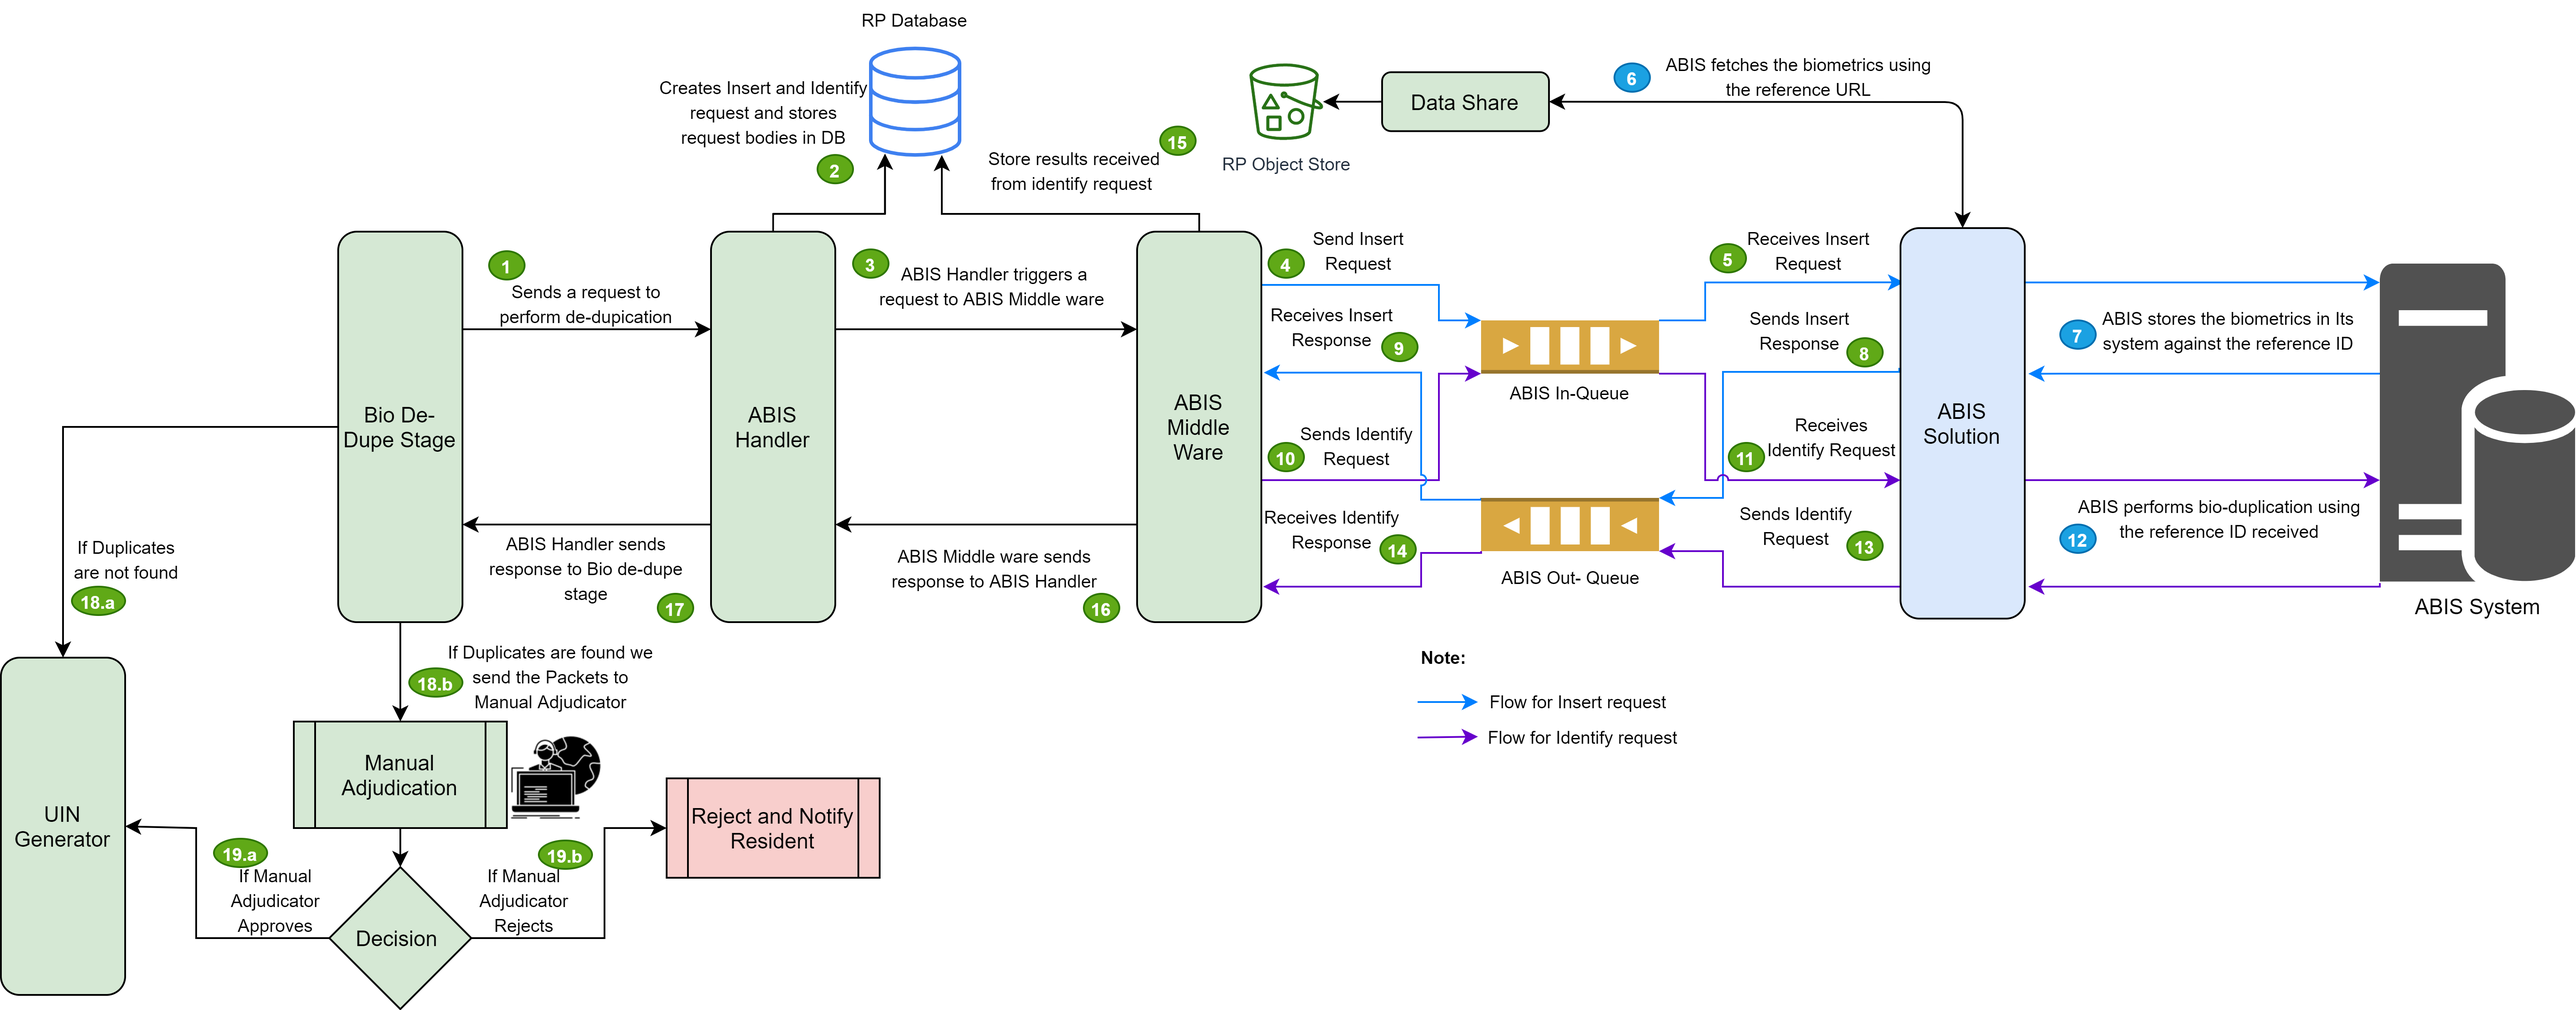
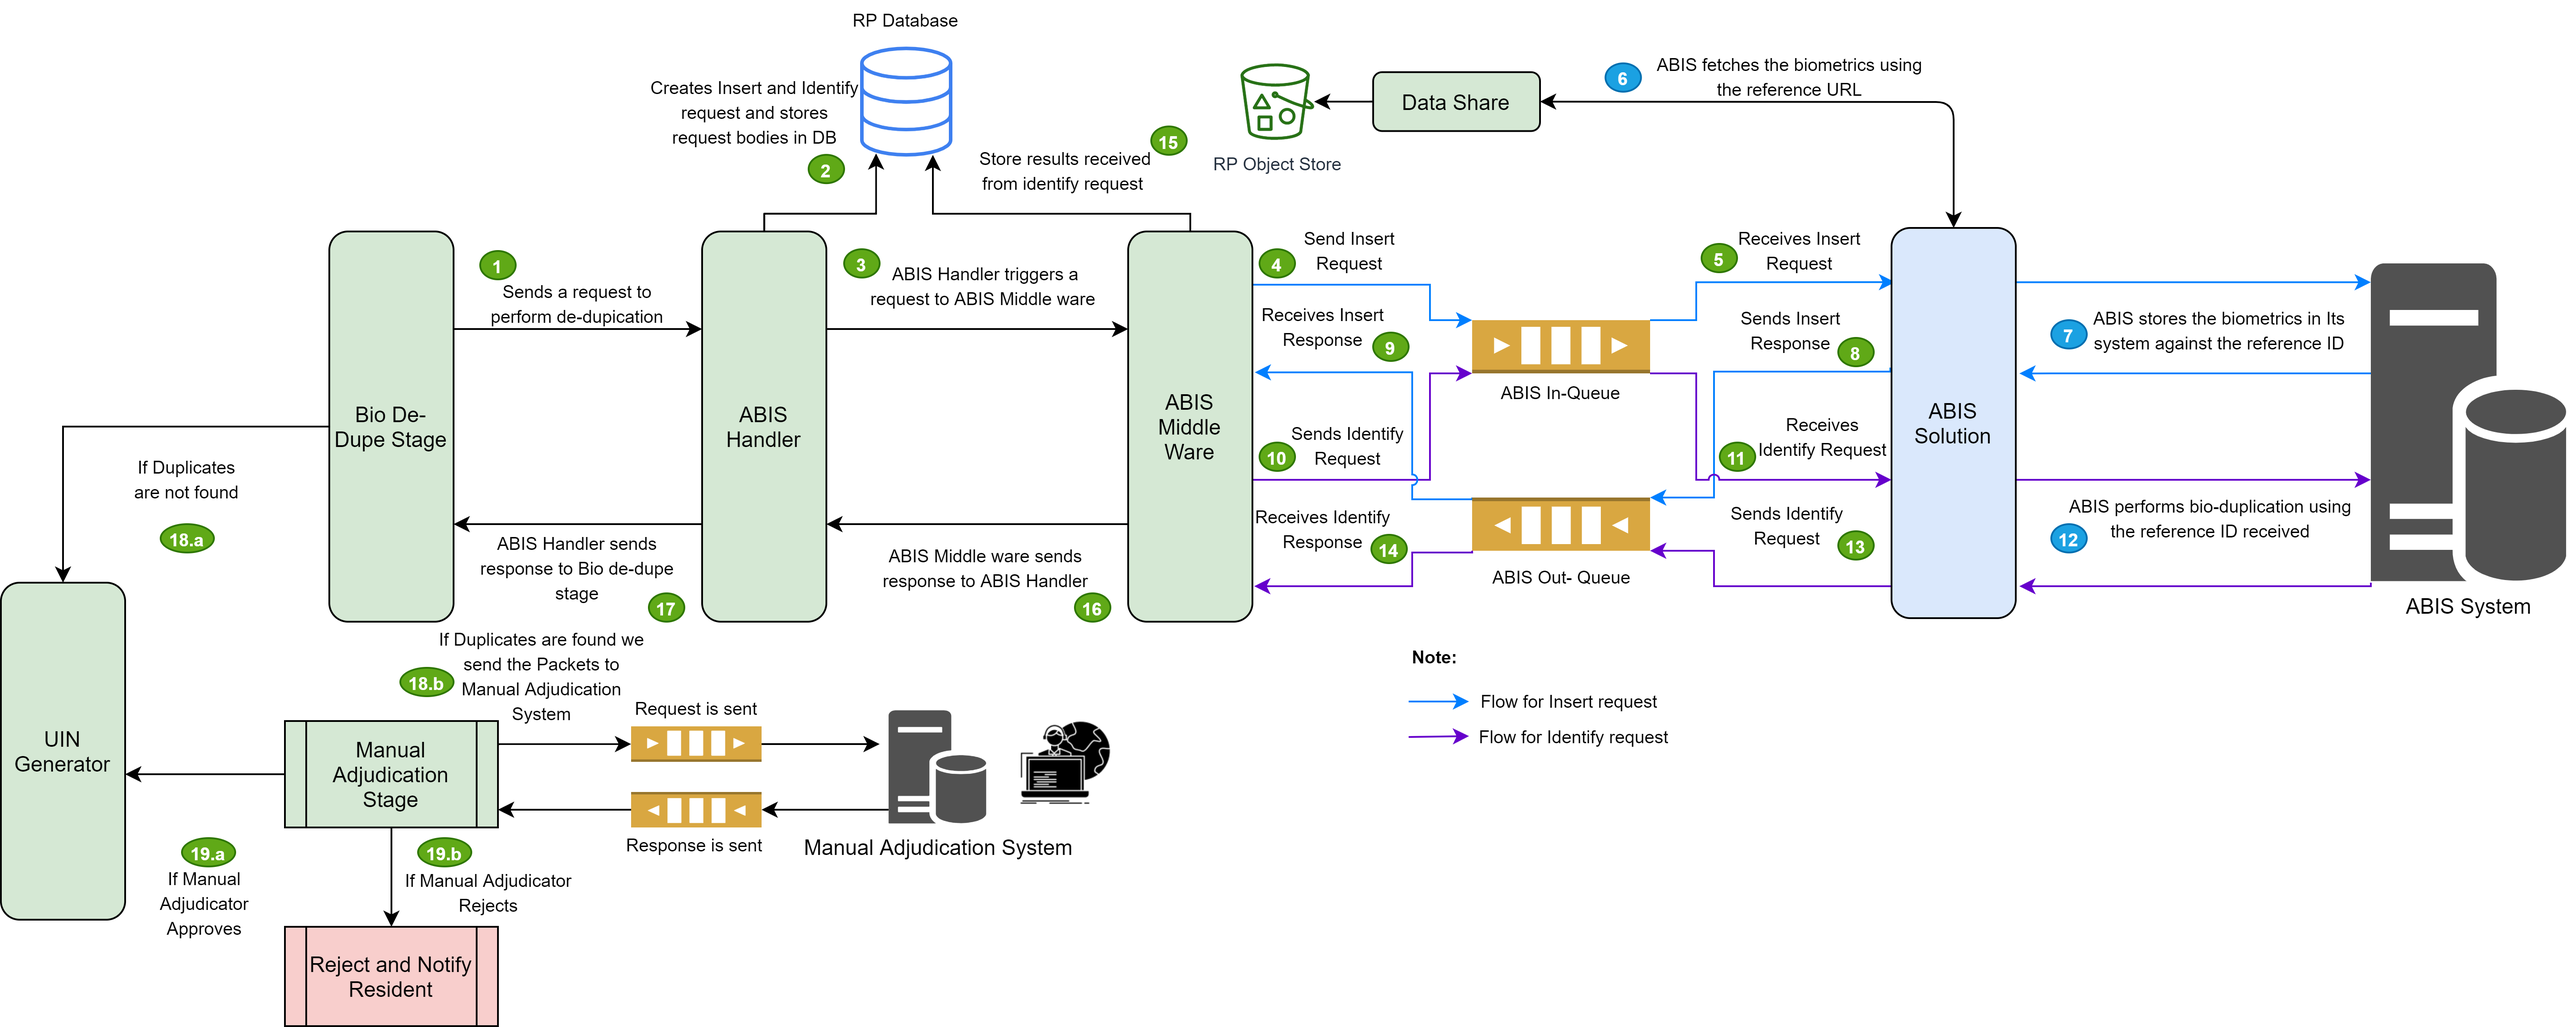
Update Manual Adjudication docs

diff --git a/docs/Deduplication-and-Manual-Adjudication.md b/docs/Deduplication-and-Manual-Adjudication.md
@@ -9,13 +9,16 @@ In demographic de-duplication the MOSIP system compares some of the demographic 
 ### Process Flow
 1. MOSIP System receives a request to perform demographic de-duplication for Person A.
 2. MOSIP System performs demographic de-duplication for Person A by,
-	i. Adding Person A's details (i.e. name, date of birth and gender) in the database.
+	i. Adding Person A's hashed demographic details (i.e. name, date of birth and gender) in the database.
 	ii. Comparing Person's details against all the records in the database.
-3. Let's say the MOSIP System find duplicates against two records - Person B and Person C.
+3. Let's say the MOSIP System find duplicates against three records - Person B, Person C and Person D.
 	i. If Person B's registration has failed we consider Person B not to be a potential match for Person A.
-	ii. If Person C's registration is completed and a UIN is associated then we consider Person C to be a potential match for Person A.
-4. Now the list of Potential Matches for Person A (here, we only have Person C as the only potential match, there can be a scenario where there are multiple potential matches for Person A) are sent to ABIS to perform de-duplication against the potential matches.
-5. As here, we ask ABIS to just perform match of Person A's biometrics with Person C's biometrics, we call this process a Gallery Match in ABIS. As we are asking ABIS to perform biometric de-duplication of Person A against the gallery that we have sent.
+	ii. If Person C's registration process in not complete, i.e. UIN is not generated for person C yet, we do not consider Person C to be a potential match for Person A in Demo Deduplication.
+	iii. If Person D's registration is completed and a UIN is associated then we consider Person D to be a potential match for Person A.
+4. Now the list of Potential Matches for Person A (here, we only have Person D as the only potential match, there can be a scenario where there are multiple potential matches for Person A) are sent to ABIS to perform de-duplication against the potential matches.
+5. Here, we ask ABIS to just perform match of Person A's biometrics with Person D's biometrics, we call this process a Gallery Match in ABIS. As we are asking ABIS to perform biometric de-duplication of Person A against the gallery that we have sent.
+	i. If the ABIS confirms that Person D's biometrics matches with Person A's biometrics, MOSIP would REJECT Person A's packet.
+	ii. If the ABIS says that Person A's and Person D's biometrics are different, we move the packet for biometric deduplication.
 
 ![](_images/biometrics/deduplication-deographic_deduplication.png)
 
@@ -23,41 +26,64 @@ In demographic de-duplication the MOSIP system compares some of the demographic 
 In biometric de-duplication the MOSIP system sends the biometrics of the resident to an ABIS System (Automated Biometrics Identification System). Here, the expectation from the ABIS system is to perform biometric de-duplication (1:N match) against all the records that it has stored earlier. 
 
 {% hint style="info" %}
-Any Packet irrespective of it has gone through demographic de-duplication or ABIS gallery match, will go through the biometric de-duplication stage.
+Any Packet irrespective of it has gone through demographic de-duplication or ABIS gallery match, will have to go through the biometric de-duplication stage.
 {% endhint %}
 
 ### Process Flow
 1. MOSIP system receives a request to perform biometric de-duplication for Person A.
-2. MOSIP system sends an insert request to the ABIS system to insert Person A's biometrics in ABIS via. a queue.
-3. ABIS system processes the request sent by MOSIP and sends a response back to MOSIP via. a queue.
-4. MOSIP system now sends a identify request to the ABIS system to perform de-duplication for Person A in ABIS via. a queue.
-5. ABIS System processes the request and sends the list of potential matches back to MOSIP via. a queue.
-6. Let's say the ABIS system has found duplicates against two records - Person B and Person C.
-	i. If Person B's registration has failed we consider Person B not to be a potential match for Person A.
-	ii. If Person C's registration is completed and a UIN is associated then we consider Person C to be a potential match for Person A.
-7. Not the list of Potential Matches for Person A (here, we only have Person C as the only potential match, there can be a scenario where there are multiple potential matches for Person A) are sent to Manual Adjudicator to take the final decision.
+2. MOSIP system sends an insert request to the ABIS system to insert Person A's biometrics in ABIS via. MOSIP-to-ABIS queue.
+3. ABIS system processes the request sent by MOSIP and sends a response back to MOSIP via. ABIS-to-MOSIP queue.
+4. MOSIP system now sends a identify request to the ABIS system to perform de-duplication for Person A in ABIS via. MOSIP-to-ABIS queue.
+5. ABIS System processes the request and sends the list of potential matches back to MOSIP via. a ABIS-to-MOSIP queue.
+6. Let's say the ABIS system has found duplicates against three records - Person B, Person C and Person D.
+	i. If Person B's registration has been REJECTED, we consider Person B not to be a potential match for Person A.
+	ii. If Person C's registration is under processing, we consider Person C to be a potential match for Person A.
+	iii. If Person D's registration is completed and a UIN is associated, we consider Person D to be a potential match for Person A.
+7. Now the list of Potential Matches for Person A (here, we have Person C and Person D as the potential matches) are sent to Manual Adjudication System to take the final decision.
 
 ![](_images/biometrics/deduplication-biometric_deduplication.png)
 
 # Manual Adjudication
-When biometric duplicates are found in ABIS, the system integrator can plug-in the Manual Adjudication Stage, which would send the biometric and demographic data of the duplicates to a Manual Adjudicator. The Manual Adjudicator now can perform various validations on the duplicate data and inform the MOSIP system if the two records are duplicates or not.
+When biometric duplicates are found in ABIS, MOSIP system sends a request for Manual Adjudication to the Manual Adjudication System via. a queue. The system integrator can build the Manual Adjudication System, which would be listening to the MOSIP-to-ManualAdjudication queue for any Manual Adjudication requests and send a response back in the ManualAdjudication-to-MOSIP system after verifying the data.
 
-In our current implementation we have kept Manual Adjudication only after biometric de-duplication in-order to confirm if the duplicates marked by the ABIS will be not issued a UIN. 
+The data sent to the Manual Adjudication system is driven by a policy defined in MOSIP.
 
-The Manual Adjudication stage can be plugged-in after demographic de-duplication also but we have done so for our current implementation because, we already do a two step verification i.e. demo match and then ABIS gallery match to confirm a duplicate.
+## Request sent to Manual Adjudication System
+```JSON
+{
+  "id": "mosip.manual.adjudication.adjudicate",
+  "version": "1.0",
+  "requestId": "4d4f27d3-ec73-41c4-a384-bf87fce4969e",
+  "referenceId": "10002100741000320210107125533",
+  "requesttime": "2021-01-19T07:16:22.930Z",
+  "referenceURL": "http://datashare-service/v1/datashare/get/mpolicy-default-adjudication/mpartner-default-adjudication/mpartner-default-adjudicationmpolicy-default-adjudication202011110619201EpLEjvD",
+  "addtional": null,
+  "gallery": {
+    "referenceIds": [
+      {
+        "referenceId": "10002100741000120210107111325",
+        "referenceURL": "http://datashare-service/v1/datashare/get/mpolicy-default-adjudication/mpartner-default-adjudication/mpartner-default-adjudicationmpolicy-default-adjudication202137493575474iefnvvsD"
+      }
+    ]
+  }
+}
+```
 
-## Manual Adjudication APIs
-* **Assignment API** - This API is used to assign one single unassigned applicant record to the manual adjudicator. The Assignement logic is based on First come First server based on the logged in Manual Adjudicator.
-* **Fetch Demographic** - The manual adjudicator has to verify the applicant demographic information. This API is used to get the applicant demographic information from packet.
-* **Fetch Biometrics** - The manual adjudicator would need to verify the applicant biometric and demographic records. This API is used to get the applicant biometric file from packet.
-* **Fetch Packet Meta Information** - The manual adjudicator has to verify the operator/supervisor/introducer etc.; information. This API fetches the additional information from packet.
-* **Desion API** - This API is used to get the decision from manual adjudicator for an applicant and update the decision in table. The packet is sent for further processing based on decision.
-
-For details about the APIs are available in [Registration Processor - Manual Adjudication APIs](Registration-Processor-APIs.md#4-manual-verification-apis).
-
-{% hint style="info" %}
-In the current implementation we have the API, assuming that there will be only one Manual Adjudication layer. The APIs for Manual Adjudication can be changed based on the country's need.
-{% endhint %}
+## Response sent to Manual Adjudication System
+```JSON
+{
+  "id": "mosip.manual.verification.decision",
+  "version": "1.0",
+  "responsetime": "2021-01-19T07:29:27.206277300Z",
+  "response": {
+    "mvUsrId": "MVUSER_1101",
+    "reasonCode": "Verified",
+    "regId": "10002100741000320210107125533",
+    "statusCode": "APPROVED"
+  },
+  "errors": []
+}
+```
 
 # Process Flow for Biometric Deduplication
 
